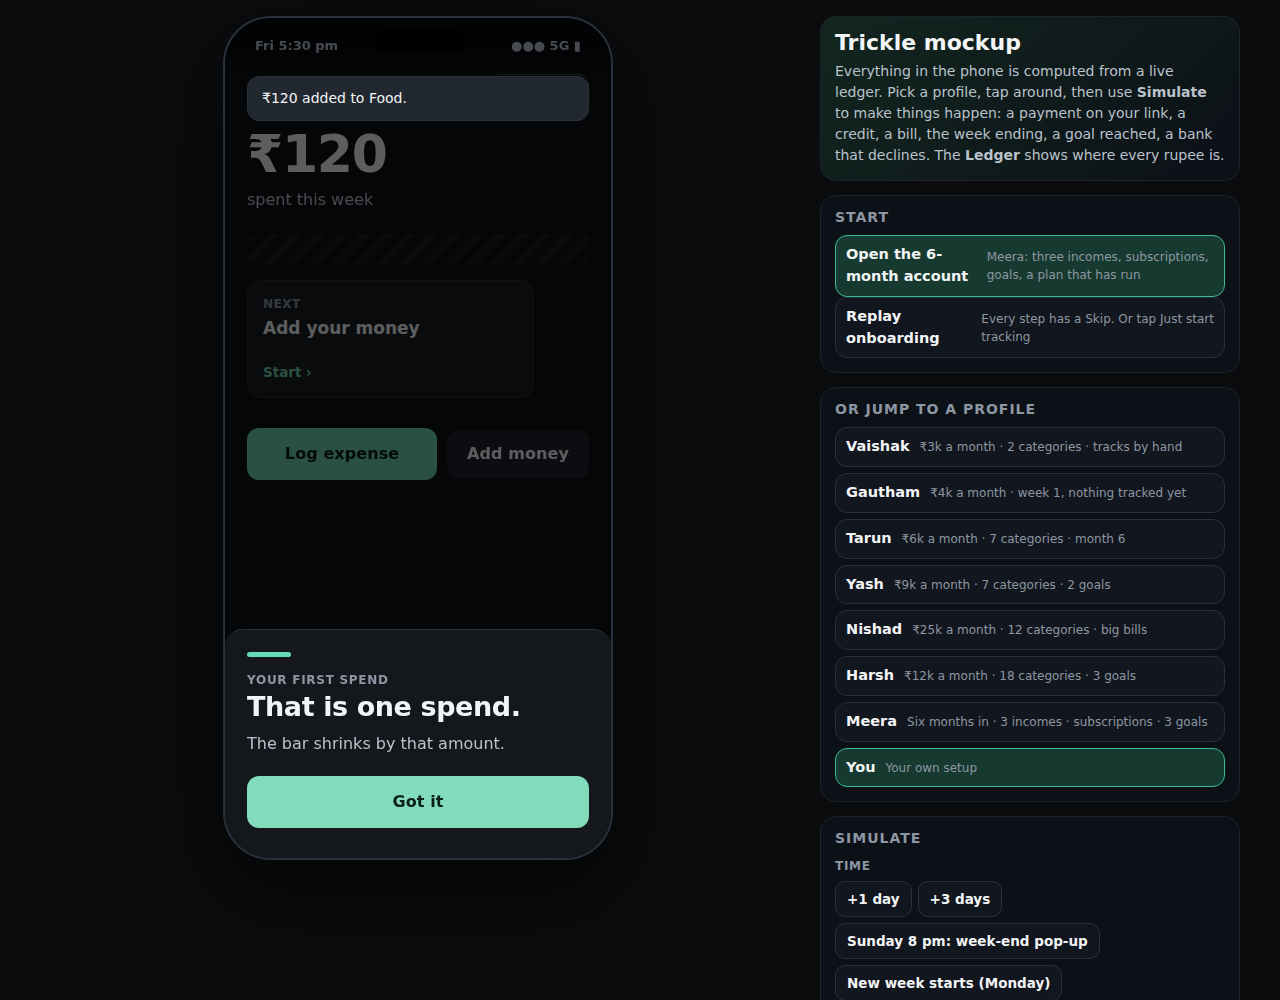
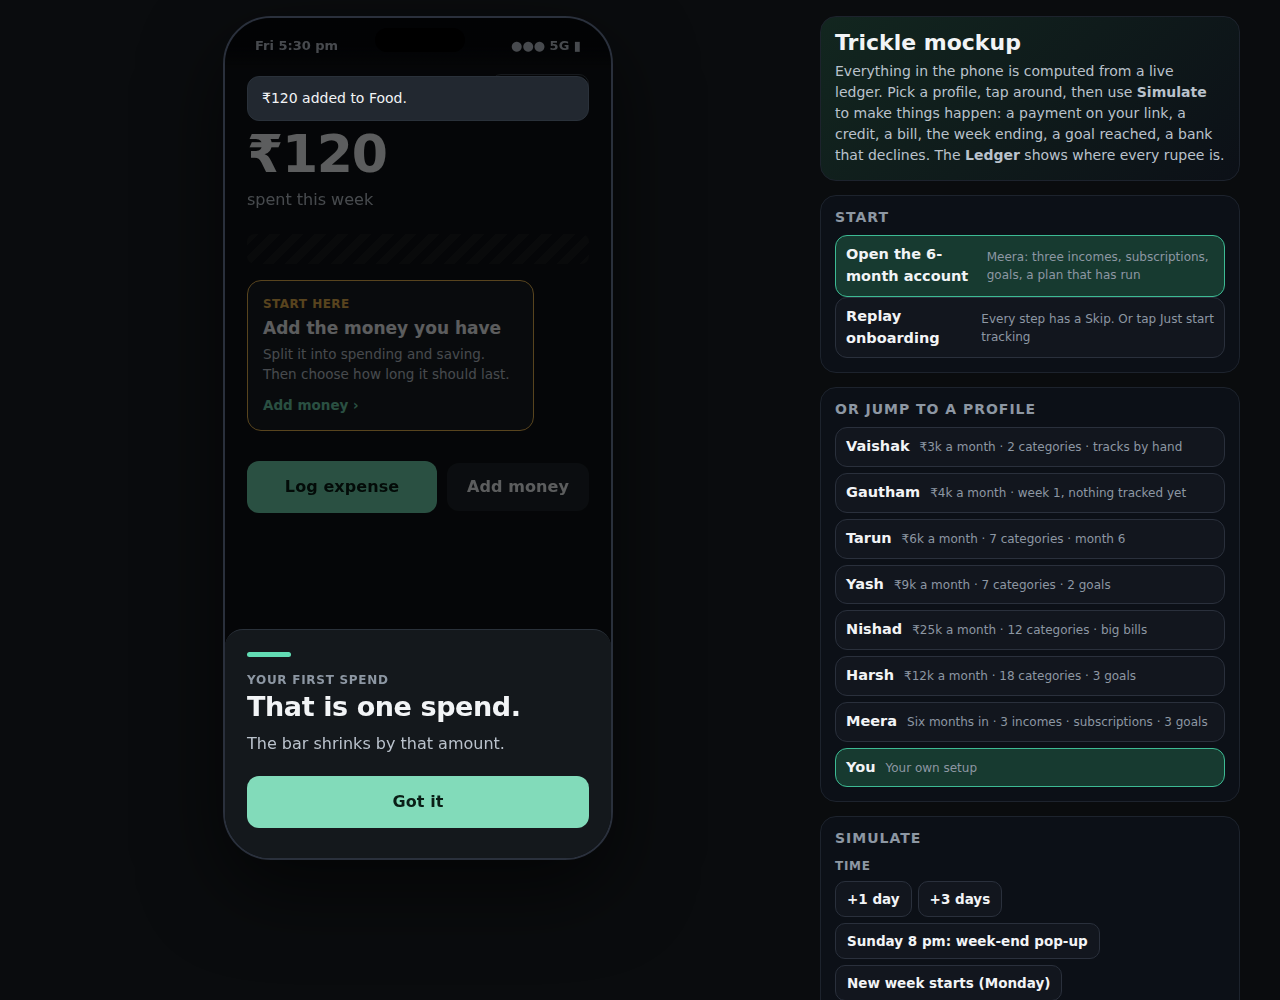
v17.7: editable goal name and target; new categories on the pay screen; first nudge explains split and duration; V17-25 to V17-27
Claude-Session: https://claude.ai/code/session_018X24G78A47pCQxY7X53pHo

Changed region(s): [[0.1875, 0.279, 0.4062, 0.527], [0.375, 0.434, 0.4375, 0.496]]

diff --git a/archive/session-workfiles/mockup17/mockup17.html b/archive/session-workfiles/mockup17/mockup17.html
@@ -2535,6 +2535,32 @@ H.goaladd=()=>{const p=UI.sheet.p,t=p.open?0:amtOf(p.kp);if(!p.open&&!t)return f
 {const _sg=SCREENS.goal;SCREENS.goal=p=>{const g=S.goals.find(x=>x.id===p.id);if(!g||g.target>0)return _sg(p);const col=goalCol(g);
  return `<button class="back" data-a="back">‹ Savings</button><div class="title" style="font-size:30px">${esc(g.name)}</div><div class="sub" style="margin-top:6px">No set amount. It just grows.</div><div style="margin-top:20px"><span class="hero" style="font-size:42px">${money(g.saved)}</span><span class="sub" style="margin-left:8px">saved</span></div><div class="cap" style="margin:22px 0 8px">Added each month</div>${weeksBars((g.hist||[]).map(v=>Math.max(0,v)),col)}<div class="row sp sm" style="margin:8px 0 22px"><span>A year ago</span><span>This month</span></div><div class="col" style="gap:10px"><button class="btn" data-a="movefrom|${g.id}">Add money</button><button class="btn q" data-a="sheet|goaledit|${J({id:g.id})}">Edit</button></div>`}}
 
+/* ===== v17.7 (9 Oct): editable goal name and target; custom categories back on the pay screen; clearer first nudge ===== */
+HI.gnametxt=(a,el)=>{UI.sheet.p.name=el.value;return false};
+{const _as=SHEETS.addgoal;SHEETS.addgoal=p=>{let h=_as(p);
+  h=h.replace('<div class="cap" style="margin:6px 0 6px">Amount (optional)</div>',`<input class="field" style="width:100%;font-size:18px;margin:2px 0 8px" placeholder="Name your goal" value="${esc(p.name||'')}" data-i="gnametxt" maxlength="24" autocomplete="off"><div class="cap" style="margin:6px 0 6px">Amount (optional)</div>`);
+  return h.replace(/<div class="h2">Add a goal<\/div>/,'<div class="h2">Add a goal</div>')}}
+{const _ga2=H.goaladd;H.goaladd=()=>{const p=UI.sheet.p;p.name=(p.name||'').trim();if(!p.name){say('Give the goal a name.');return false}return _ga2()}}
+/* edit: name, amount and date can all change later */
+SHEETS.goaledit=p=>{const g=S.goals.find(x=>x.id===p.id);if(!g)return '';if(p.name===undefined){p.name=g.name;p.open=!(g.target>0);p.kp=g.target>0?String(g.target):'';p.by=g.byMonths||0}
+ const a=amtOf(p.kp),need=a&&p.by?Math.ceil(a/p.by/10)*10:0;
+ return `<div class="h2">Edit goal</div><input class="field" style="width:100%;font-size:18px;margin:10px 0 8px" value="${esc(p.name)}" data-i="gnametxt" maxlength="24" autocomplete="off">
+ <div class="cap" style="margin:6px 0 6px">Amount (optional)</div><div class="row wrap"><button class="chip ${p.open?'on':''}" data-a="geopen|1">No set amount</button><button class="chip ${p.open?'':'on'}" data-a="geopen|0">Set an amount</button></div>
+ ${p.open?'':`<div class="field" style="font-size:30px;margin-top:10px">₹ ${esc(p.kp||'0')}</div><div class="cap" style="margin:12px 0 6px">By when (optional)</div><div class="row wrap">${[[0,'No date'],[6,'6 months'],[12,'1 year'],[24,'2 years']].map(o=>`<button class="chip ${p.by===o[0]?'on':''}" data-a="geby|${o[0]}">${o[1]}</button>`).join('')}</div><div class="sub" style="margin:10px 0">${need?`Save about ${money(need)} a month to get there.`:''}</div>${keypad('kp')}`}
+ <div class="col" style="gap:8px;margin-top:12px"><button class="btn ${p.open||a?'':'d'}" data-a="${p.open||a?'gesave':'x'}">Save</button><button class="btn q" data-a="gdone|${g.id}">Mark done</button><button class="btn o" data-a="gdel|${g.id}">Delete goal</button><div class="sm">Deleting returns its money to free savings.</div></div>`};
+H.geopen=a=>{const p=UI.sheet.p;p.open=a[0]==='1';if(!p.open&&!p.kp)p.kp='6000'};
+H.geby=a=>{UI.sheet.p.by=+a[0]};
+H.gesave=()=>{const p=UI.sheet.p,g=S.goals.find(x=>x.id===p.id);if(!g)return false;const nm=(p.name||'').trim();if(!nm){say('Give the goal a name.');return false}g.name=nm;g.target=p.open?0:amtOf(p.kp);g.byMonths=g.target?(p.by||0):0;if(g.target>0&&g.saved<g.target&&g.state==='reached')g.state='active';reachedCheck(S);UI.sheet=null;say('Goal saved.');return false};
+/* the goal screen shows the open-goal "Set an amount" next to Edit through the same sheet; nothing else to change */
+/* pay screen: "+ New" opens the category search, where a new name can be created */
+{const _ap=applyPick;applyPick=function(act,arg,id){if(act==='scan'){const d=UI.flow.d;d.cid=id;d.target={type:'cat',id};d.toK=id;d.catWhy='';UI.sheet=null;return}return _ap(act,arg,id)}}
+{const _sc=scanConfirm;scanConfirm=function(F){let h=_sc(F);if(h.indexOf('data-a="scanmore"')>=0)return h.replace('data-a="scanmore">More</button>','data-a="scanmore">More or new</button>');
+  const i=h.lastIndexOf('data-a="scancat|');if(i<0)return h;const j=h.indexOf('</button>',i)+9;return h.slice(0,j)+'<button class="chip" data-a="scanmore">+ New</button>'+h.slice(j)}}
+/* first nudge for someone with no money added yet */
+{const _c2=cards17;cards17=function(){const out=_c2();if(planned())return out;const rest=out.filter(x=>x.tag!=='Next'&&x.tag!=='Soon');
+  return [{tag:'Start here',t:'Add the money you have',sub:'Split it into spending and saving. Then choose how long it should last.',a:'addmoney17',cta:'Add money',hot:true},...rest].slice(0,7)}}
+{const _fi2=FLOWS.inc;FLOWS.inc=F=>{const h=_fi2(F);return F.step===0?h.replace('<div class="sub" style="margin-top:6px">Rough is fine.</div>','<div class="sub" style="margin-top:6px">Rough is fine. You will split it into spending and saving, then choose how long it lasts.</div>'):h}}
+
 /* ===== control panel ===== */
 function loadProfile(k){S=newState(k);S.moneyIn=[{id:'m0',t:new Date(2026,9,1,9,0).getTime(),label:'Allowance',amt:S.p.income,note:''}];if(S.p.six)seedSix();else if(S.p.W>0){S.planSet=true;S.cats.forEach(c=>c.full=c.amt);S.bufFull=S.bufAmt;S.firstDay=new Date(S.now.getTime()-S.p.weeks*7*DAY)}resetUI();window._celeLock=false;render();fitPhone()}
 function ev(name,fn){return {name,fn}}

diff --git a/archive/session-workfiles/mockup17/ui17d.js b/archive/session-workfiles/mockup17/ui17d.js
@@ -39,3 +39,29 @@ H.gopen=a=>{const p=UI.sheet.p;p._set=true;p.open=a[0]==='1';if(!p.open&&!p.kp)p
 H.goaladd=()=>{const p=UI.sheet.p,t=p.open?0:amtOf(p.kp);if(!p.open&&!t)return false;const n=S.goals.length;addGoal(S,{name:p.name,target:t,byMonths:t?(p.by||0):0});UI.sheet=null;say(`${p.name} added.`);if(S.goals.length>n&&S.free>=1){const g=S.goals[S.goals.length-1];openSheet('fundgoal',{id:g.id})};return false};
 {const _sg=SCREENS.goal;SCREENS.goal=p=>{const g=S.goals.find(x=>x.id===p.id);if(!g||g.target>0)return _sg(p);const col=goalCol(g);
  return `<button class="back" data-a="back">‹ Savings</button><div class="title" style="font-size:30px">${esc(g.name)}</div><div class="sub" style="margin-top:6px">No set amount. It just grows.</div><div style="margin-top:20px"><span class="hero" style="font-size:42px">${money(g.saved)}</span><span class="sub" style="margin-left:8px">saved</span></div><div class="cap" style="margin:22px 0 8px">Added each month</div>${weeksBars((g.hist||[]).map(v=>Math.max(0,v)),col)}<div class="row sp sm" style="margin:8px 0 22px"><span>A year ago</span><span>This month</span></div><div class="col" style="gap:10px"><button class="btn" data-a="movefrom|${g.id}">Add money</button><button class="btn q" data-a="sheet|goaledit|${J({id:g.id})}">Edit</button></div>`}}
+
+/* ===== v17.7 (9 Oct): editable goal name and target; custom categories back on the pay screen; clearer first nudge ===== */
+HI.gnametxt=(a,el)=>{UI.sheet.p.name=el.value;return false};
+{const _as=SHEETS.addgoal;SHEETS.addgoal=p=>{let h=_as(p);
+  h=h.replace('<div class="cap" style="margin:6px 0 6px">Amount (optional)</div>',`<input class="field" style="width:100%;font-size:18px;margin:2px 0 8px" placeholder="Name your goal" value="${esc(p.name||'')}" data-i="gnametxt" maxlength="24" autocomplete="off"><div class="cap" style="margin:6px 0 6px">Amount (optional)</div>`);
+  return h.replace(/<div class="h2">Add a goal<\/div>/,'<div class="h2">Add a goal</div>')}}
+{const _ga2=H.goaladd;H.goaladd=()=>{const p=UI.sheet.p;p.name=(p.name||'').trim();if(!p.name){say('Give the goal a name.');return false}return _ga2()}}
+/* edit: name, amount and date can all change later */
+SHEETS.goaledit=p=>{const g=S.goals.find(x=>x.id===p.id);if(!g)return '';if(p.name===undefined){p.name=g.name;p.open=!(g.target>0);p.kp=g.target>0?String(g.target):'';p.by=g.byMonths||0}
+ const a=amtOf(p.kp),need=a&&p.by?Math.ceil(a/p.by/10)*10:0;
+ return `<div class="h2">Edit goal</div><input class="field" style="width:100%;font-size:18px;margin:10px 0 8px" value="${esc(p.name)}" data-i="gnametxt" maxlength="24" autocomplete="off">
+ <div class="cap" style="margin:6px 0 6px">Amount (optional)</div><div class="row wrap"><button class="chip ${p.open?'on':''}" data-a="geopen|1">No set amount</button><button class="chip ${p.open?'':'on'}" data-a="geopen|0">Set an amount</button></div>
+ ${p.open?'':`<div class="field" style="font-size:30px;margin-top:10px">₹ ${esc(p.kp||'0')}</div><div class="cap" style="margin:12px 0 6px">By when (optional)</div><div class="row wrap">${[[0,'No date'],[6,'6 months'],[12,'1 year'],[24,'2 years']].map(o=>`<button class="chip ${p.by===o[0]?'on':''}" data-a="geby|${o[0]}">${o[1]}</button>`).join('')}</div><div class="sub" style="margin:10px 0">${need?`Save about ${money(need)} a month to get there.`:''}</div>${keypad('kp')}`}
+ <div class="col" style="gap:8px;margin-top:12px"><button class="btn ${p.open||a?'':'d'}" data-a="${p.open||a?'gesave':'x'}">Save</button><button class="btn q" data-a="gdone|${g.id}">Mark done</button><button class="btn o" data-a="gdel|${g.id}">Delete goal</button><div class="sm">Deleting returns its money to free savings.</div></div>`};
+H.geopen=a=>{const p=UI.sheet.p;p.open=a[0]==='1';if(!p.open&&!p.kp)p.kp='6000'};
+H.geby=a=>{UI.sheet.p.by=+a[0]};
+H.gesave=()=>{const p=UI.sheet.p,g=S.goals.find(x=>x.id===p.id);if(!g)return false;const nm=(p.name||'').trim();if(!nm){say('Give the goal a name.');return false}g.name=nm;g.target=p.open?0:amtOf(p.kp);g.byMonths=g.target?(p.by||0):0;if(g.target>0&&g.saved<g.target&&g.state==='reached')g.state='active';reachedCheck(S);UI.sheet=null;say('Goal saved.');return false};
+/* the goal screen shows the open-goal "Set an amount" next to Edit through the same sheet; nothing else to change */
+/* pay screen: "+ New" opens the category search, where a new name can be created */
+{const _ap=applyPick;applyPick=function(act,arg,id){if(act==='scan'){const d=UI.flow.d;d.cid=id;d.target={type:'cat',id};d.toK=id;d.catWhy='';UI.sheet=null;return}return _ap(act,arg,id)}}
+{const _sc=scanConfirm;scanConfirm=function(F){let h=_sc(F);if(h.indexOf('data-a="scanmore"')>=0)return h.replace('data-a="scanmore">More</button>','data-a="scanmore">More or new</button>');
+  const i=h.lastIndexOf('data-a="scancat|');if(i<0)return h;const j=h.indexOf('</button>',i)+9;return h.slice(0,j)+'<button class="chip" data-a="scanmore">+ New</button>'+h.slice(j)}}
+/* first nudge for someone with no money added yet */
+{const _c2=cards17;cards17=function(){const out=_c2();if(planned())return out;const rest=out.filter(x=>x.tag!=='Next'&&x.tag!=='Soon');
+  return [{tag:'Start here',t:'Add the money you have',sub:'Split it into spending and saving. Then choose how long it should last.',a:'addmoney17',cta:'Add money',hot:true},...rest].slice(0,7)}}
+{const _fi2=FLOWS.inc;FLOWS.inc=F=>{const h=_fi2(F);return F.step===0?h.replace('<div class="sub" style="margin-top:6px">Rough is fine.</div>','<div class="sub" style="margin-top:6px">Rough is fine. You will split it into spending and saving, then choose how long it lasts.</div>'):h}}

diff --git a/docs/claude/v14_decisions.md b/docs/claude/v14_decisions.md
@@ -606,3 +606,10 @@ Tarun, 8 Oct, verbatim: "the reviews I got from user testing are the information
 | ID | Domain | Evidence | Validation gate | Status |
 |---|---|---|---|---|
 | V17-24 | Goals | Tarun: "the goal doesn't need to have a set limit like emergency fund, even duration is optional". The Add a goal sheet now has "No set amount" (default for Emergency fund) or "Set an amount"; the date is optional ("No date" is the default). A goal with no amount shows what is saved, no bar and no percent, and never counts as reached. The emergency fund suggestion of about 3 months of spending is shown as a hint, not set for the user. Money can still be added and moved. | Do testers create an emergency fund without being asked for an amount? | CONFIRMED (Tarun) |
+
+### V17-25 to V17-27 (9 Oct, from Tarun). CONFIRMED (his instructions); wording of the nudge is mine.
+| ID | Domain | Evidence | Validation gate | Status |
+|---|---|---|---|---|
+| V17-25 | Goal name and target | Tarun: "the goal needs an editable name" and "let me edit the target later". The Add a goal sheet has a name field (the chips fill it in); the Edit sheet changes name, amount (or none) and date, and still has Mark done and Delete. A goal needs a name. | Can a tester rename a goal and set its amount later? | CONFIRMED (Tarun) |
+| V17-26 | Custom categories on the pay screen | Tarun: "what happened to custom categories in payment". They were lost when the scan flow replaced the old pay flow. The pay screen now has "+ New" (or "More or new" with many categories), which opens a search where a new name can be created and is selected at once. | Can a tester pay to a category they just created without leaving the screen? | CONFIRMED (Tarun) |
+| V17-27 | First nudge to add an amount | Tarun: nudge a new user to add an amount; they should understand that the money they have can be split into spending and saving, and they choose how long it lasts. Home for a user with no money added shows "Add the money you have. Split it into spending and saving. Then choose how long it should last." with an Add money button; the first question repeats this in one line. The three steps already existed (amount, save share, how long). | Five-second test: can a tester say what Add money will do? | PROPOSED |
